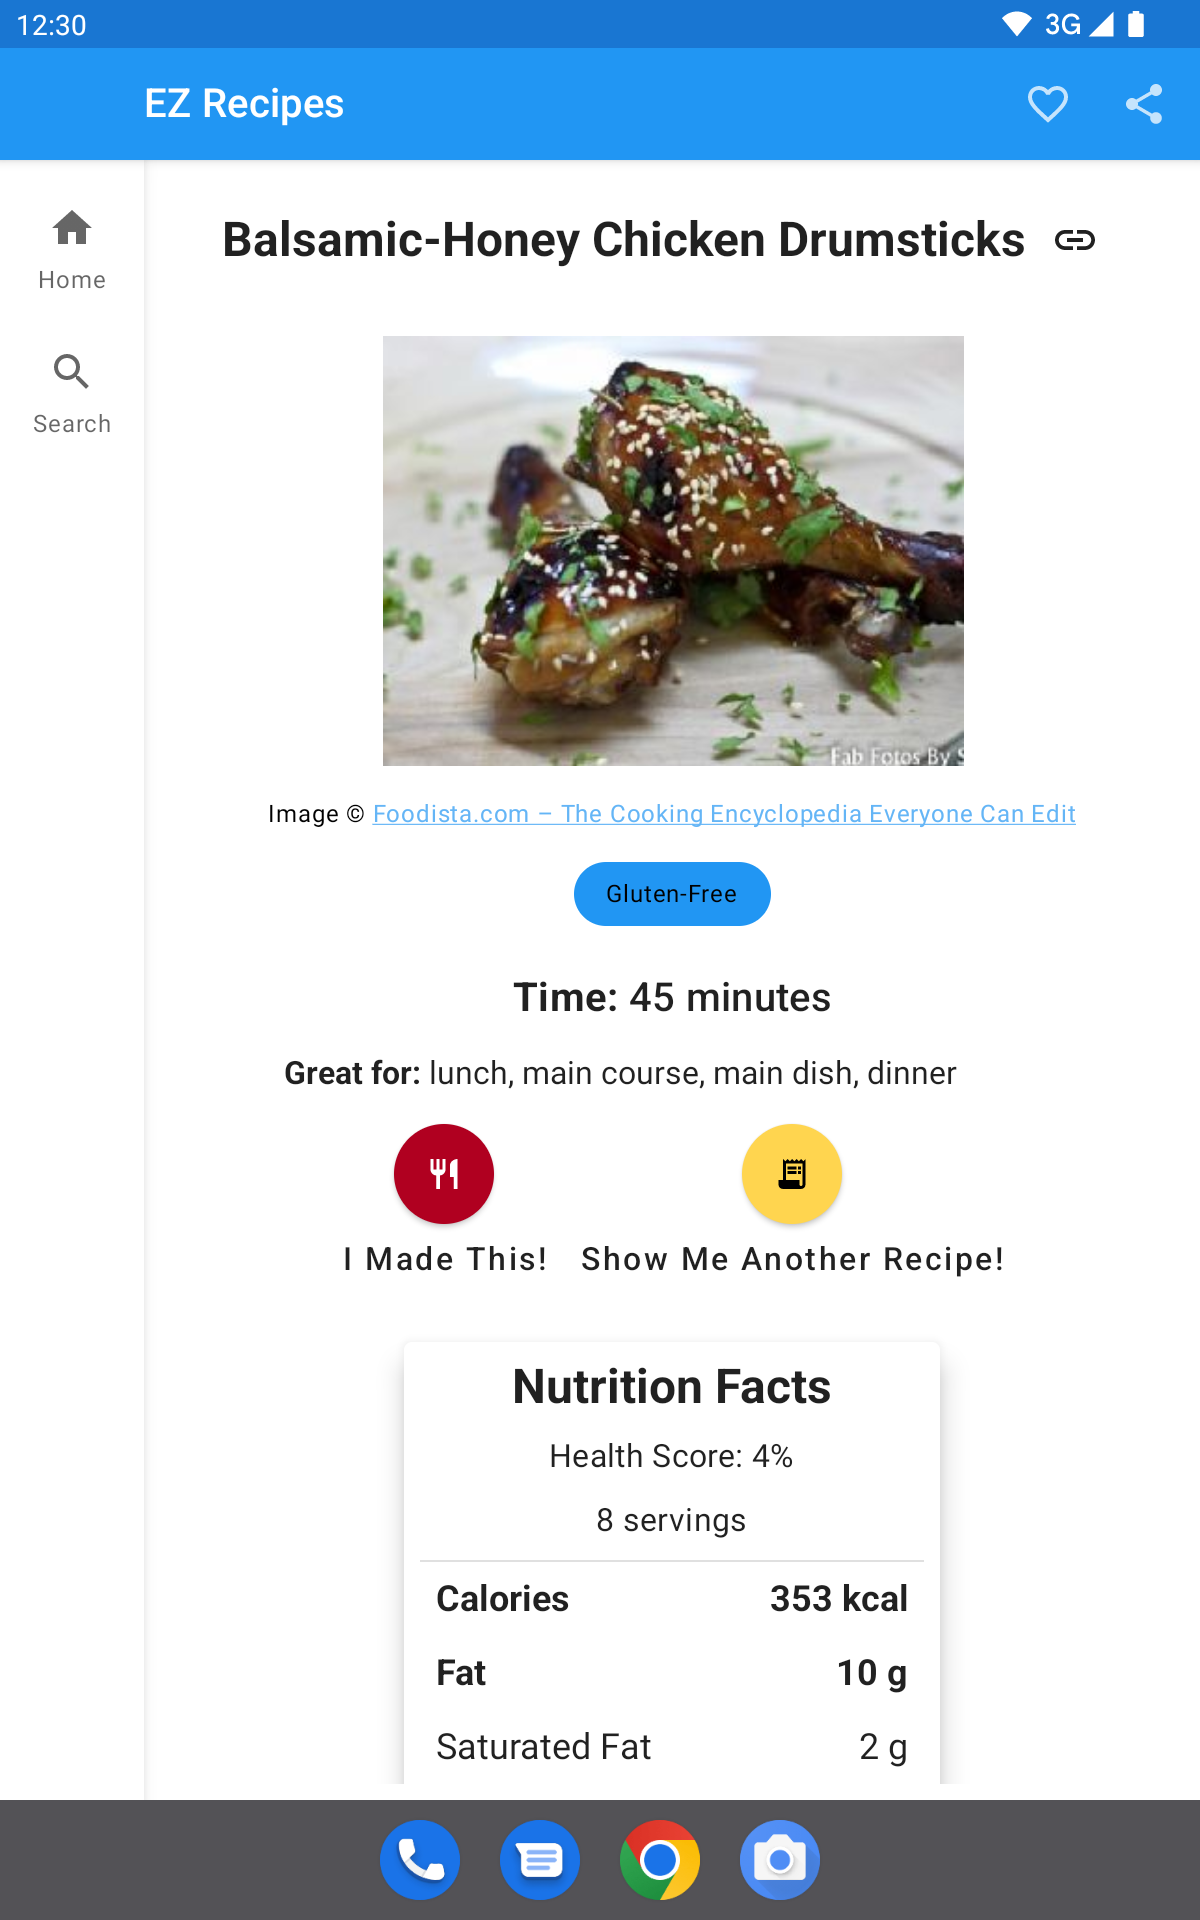
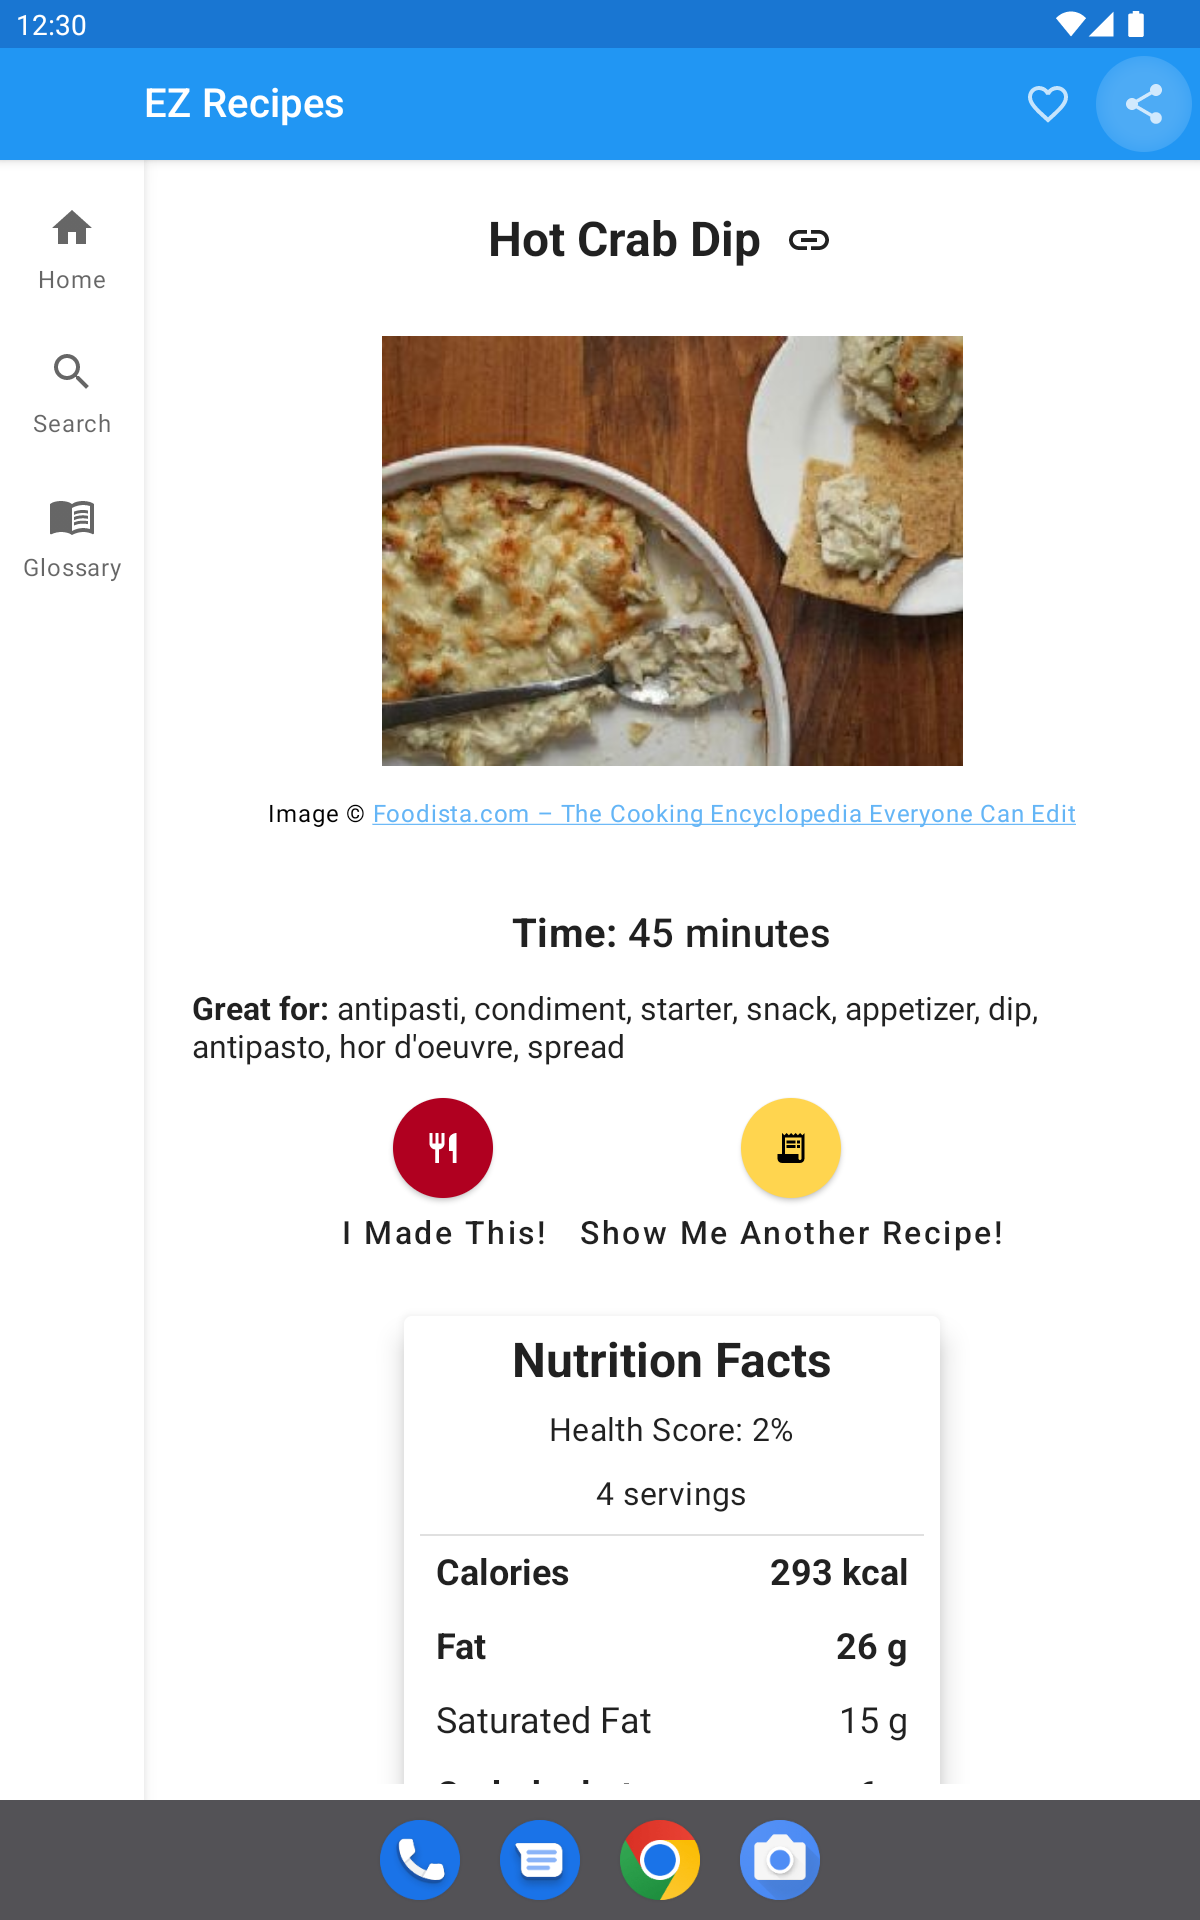
Update screenshots & full description

diff --git a/README.md b/README.md
@@ -8,13 +8,14 @@
 </a>
 
 <div>
-    <img src="EZRecipes/fastlane/metadata/android/en-US/images/phoneScreenshots/1_en-US_framed.png" alt="home screen" width="300">
-    <img src="EZRecipes/fastlane/metadata/android/en-US/images/phoneScreenshots/2_en-US_framed.png" alt="recipe header" width="300">
-    <img src="EZRecipes/fastlane/metadata/android/en-US/images/phoneScreenshots/3_en-US_framed.png" alt="nutrition label" width="300">
-    <img src="EZRecipes/fastlane/metadata/android/en-US/images/phoneScreenshots/4_en-US_framed.png" alt="summary box" width="300">
-    <img src="EZRecipes/fastlane/metadata/android/en-US/images/phoneScreenshots/5_en-US_framed.png" alt="ingredients list" width="300">
-    <img src="EZRecipes/fastlane/metadata/android/en-US/images/phoneScreenshots/6_en-US_framed.png" alt="filter form" width="300">
-    <img src="EZRecipes/fastlane/metadata/android/en-US/images/phoneScreenshots/7_en-US_framed.png" alt="search results" width="300">
+    <img src="EZRecipes/fastlane/metadata/android/en-US/images/phoneScreenshots/1_en-US.png" alt="home screen" width="300">
+    <img src="EZRecipes/fastlane/metadata/android/en-US/images/phoneScreenshots/2_en-US.png" alt="recipe header" width="300">
+    <img src="EZRecipes/fastlane/metadata/android/en-US/images/phoneScreenshots/3_en-US.png" alt="nutrition label" width="300">
+    <img src="EZRecipes/fastlane/metadata/android/en-US/images/phoneScreenshots/4_en-US.png" alt="summary box" width="300">
+    <img src="EZRecipes/fastlane/metadata/android/en-US/images/phoneScreenshots/5_en-US.png" alt="instructions list" width="300">
+    <img src="EZRecipes/fastlane/metadata/android/en-US/images/phoneScreenshots/6_en-US.png" alt="filter form" width="300">
+    <img src="EZRecipes/fastlane/metadata/android/en-US/images/phoneScreenshots/7_en-US.png" alt="search results" width="300">
+    <img src="EZRecipes/fastlane/metadata/android/en-US/images/phoneScreenshots/8_en-US.png" alt="glossary screen" width="300">
 </div>
 
 ## Overview
